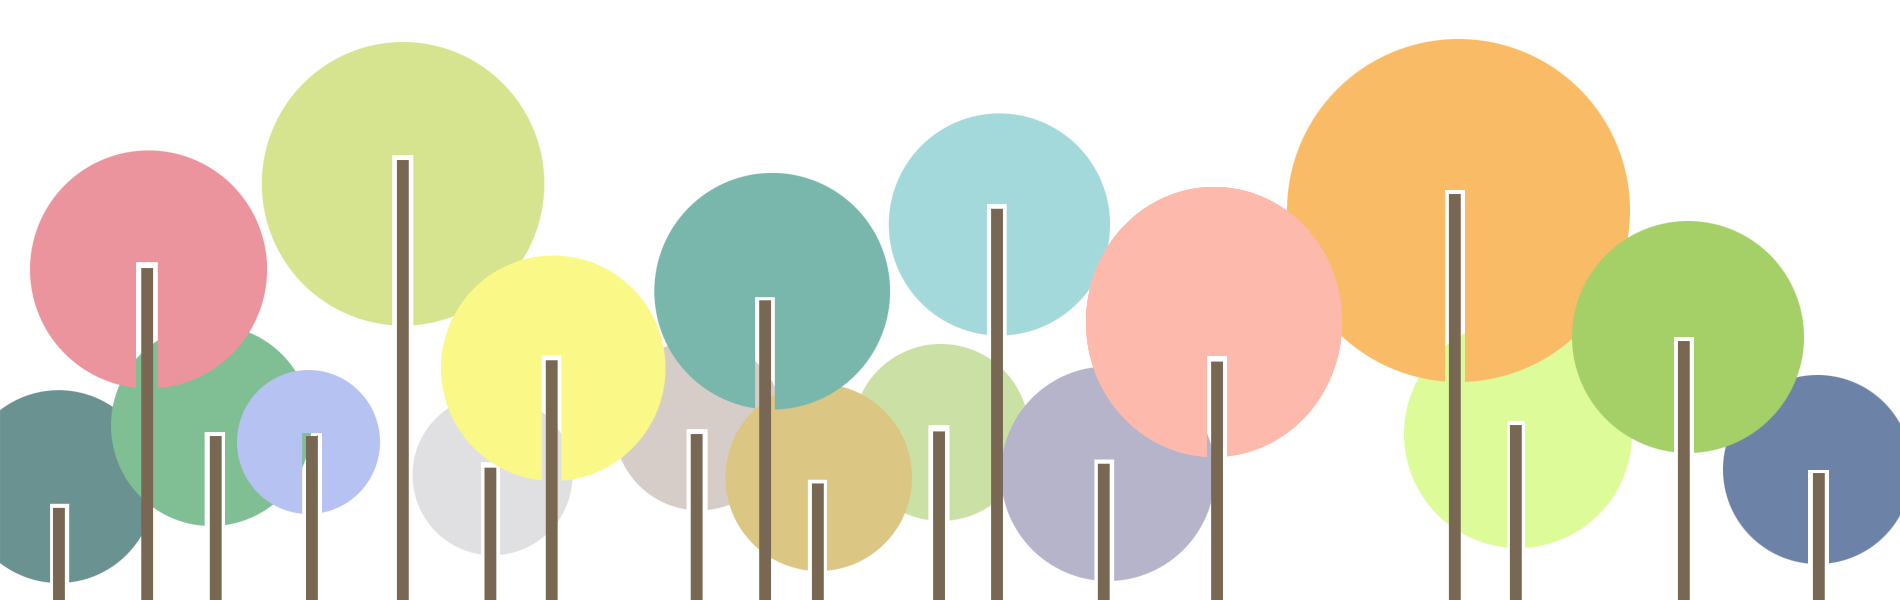
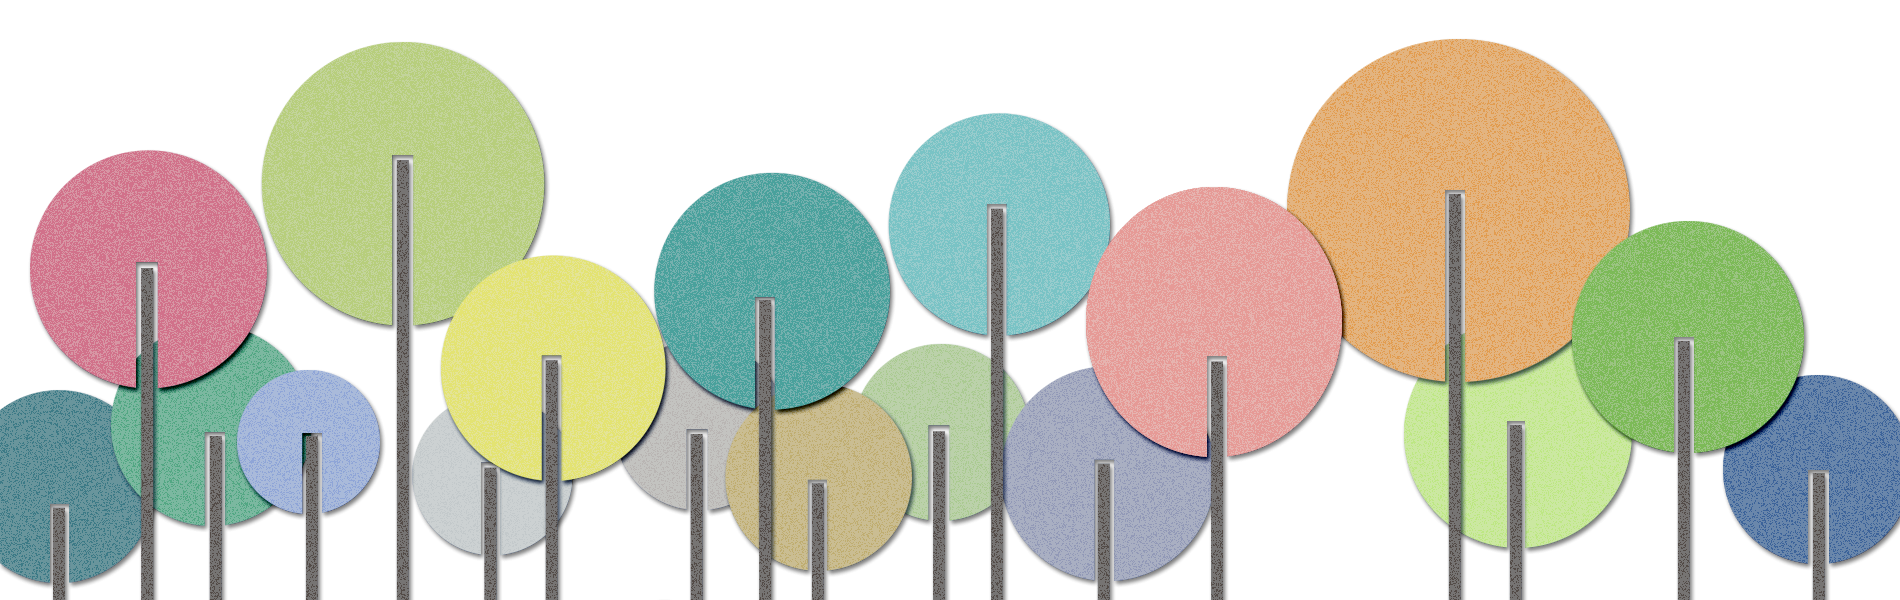
Texturizing one bg and formatting separator

diff --git a/css/style.css b/css/style.css
@@ -143,10 +143,14 @@ background-image: url('../images/contact_me_button_open.png');
 	width: 100%;
 }
 
-#separator {
+#separator {	
+	background-image: url('https://raw.githubusercontent.com/ehjung/ehjung.github.io/master/images/separator.png');
+	background-size: contain;
+	background-repeat: repeat no-repeat;
+	height: 20px;
 	width: 100%;
-	background: url('../images/separator.png');
-	height: 25px;
+	border-top: thin dotted #776C50;
+	border-bottom: thin dotted #776C50;
 }
 
 #about_me {

diff --git a/index.html b/index.html
@@ -40,6 +40,8 @@
         </div> <!--.story-->
     </div> <!--#second-->
 
+    <div id="separator"></div>
+
     <div id="resume">
         <div class="left_section">
             <h1>Languages</h1>
@@ -88,6 +90,8 @@
                 <h1>Work Experience</h1>
         </div>
     </div> <!--#resume-->
+
+    <div id="separator"></div>
         
     <div id="contact_me">
         <div class="story">
